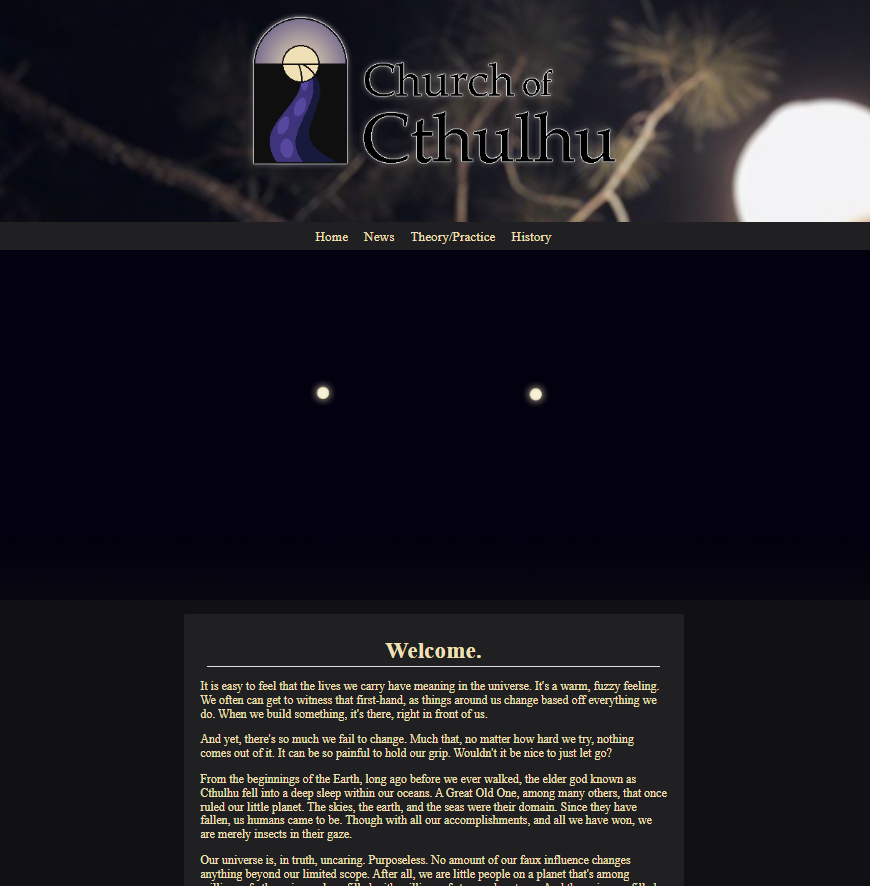
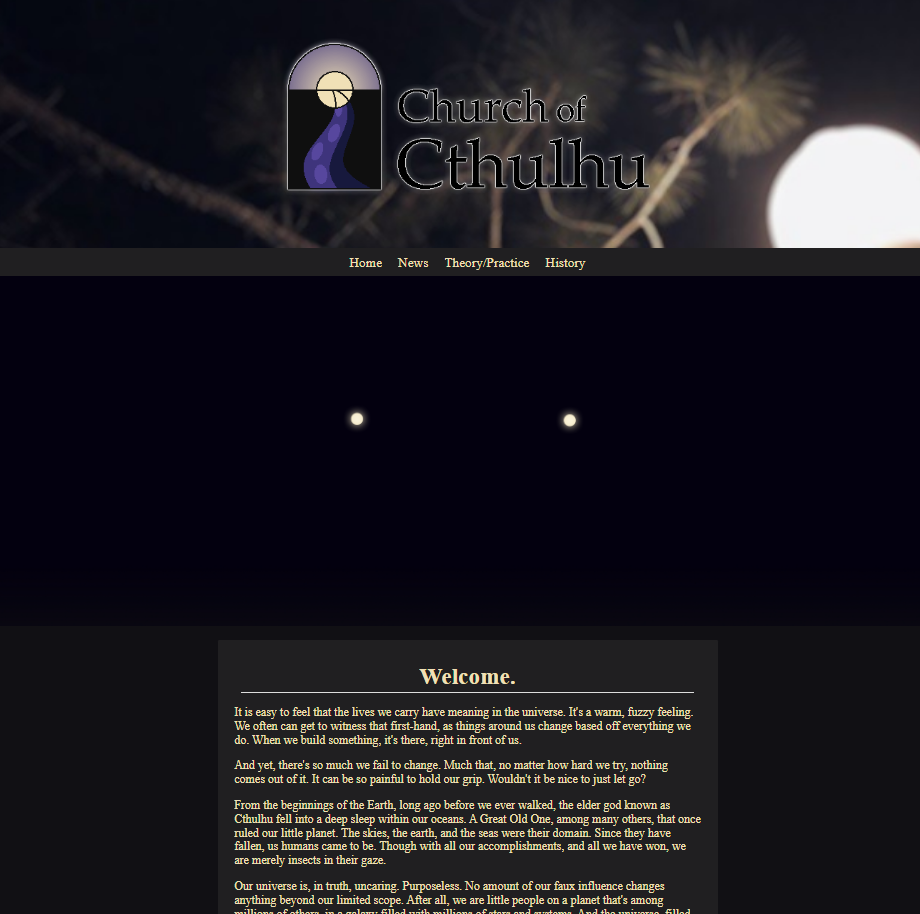
mobile improvements

diff --git a/public/index.scss b/public/index.scss
@@ -20,28 +20,6 @@ $expandedheight: 700px;
 @media (min-width:320px) {
     // smartphones, portrait iPhone, portrait 480x320 phones (Android)
     .item.active {
-        height: $expandedheight - 125px;
-    }
-    
-    .item.inactive {
-        height: $itemheight - 125px;
-    }
-
-    .toggle {
-        top: $itemheight - $dropdownheight - 125px;
-    }
-
-    .active .toggle {
-        top: $expandedheight - $dropdownheight - 125px;
-    }
-
-    .content {
-        top: $expandedheight - $descheight - $dropdownheight * 2 - 125px;
-    }
-}
-@media (min-width:480px)  {  
-    // smartphones, Android phones, landscape iPhone
-    .item.active {
         height: $expandedheight - 100px;
     }
     
@@ -58,7 +36,41 @@ $expandedheight: 700px;
     }
 
     .content {
-        top: $expandedheight - $descheight - $dropdownheight * 2 - 100px; 
+        top: $expandedheight - $descheight - $dropdownheight * 2 - 100px;
+    }
+
+    p {
+        font-size: 14px;
+    }
+    .icon {
+        margin-bottom: 10px;
+        margin-top: 10px;
+    }
+    h1 {
+        margin-bottom: 30px;
+        margin-top: 60px;
+    }
+}
+@media (min-width:480px)  {  
+    // smartphones, Android phones, landscape iPhone
+    .item.active {
+        height: $expandedheight - 80px;
+    }
+    
+    .item.inactive {
+        height: $itemheight - 80px;
+    }
+
+    .toggle {
+        top: $itemheight - $dropdownheight - 80px;
+    }
+
+    .active .toggle {
+        top: $expandedheight - $dropdownheight - 80px;
+    }
+
+    .content {
+        top: $expandedheight - $descheight - $dropdownheight * 2 - 80px; 
     }
 }
 @media (min-width:600px)  {  
@@ -81,6 +93,17 @@ $expandedheight: 700px;
 
     .content {
         top: $expandedheight - $descheight - $dropdownheight * 2;
+    }
+    p {
+        font-size: 16px;
+    }
+    .icon {
+        margin-bottom: 20px;
+        margin-top: 20px;
+    }
+    h1 {
+        margin-bottom: 40px;
+        margin-top: 80px;
     }
 }
 @media (min-width:801px)  { 
@@ -219,8 +242,6 @@ footer {
     border-radius: 50%;
     width: 100px;
     height: 100px;
-    margin-top: 20px;
-    margin-bottom: 20px;
 }
 
 .decor {
@@ -266,8 +287,6 @@ footer {
 }
 
 h1 {
-    margin-top: 80px;
-    margin-bottom: 40px;
     color: white;
     text-align: center;
     text-shadow: 0px 5px 5px rgba(0, 0, 0, 0.50);
@@ -284,7 +303,7 @@ h1 {
 
 .card h2 {
     margin: 0px 0px 0px 0px;
-    padding-top: 20px;
+    padding-top: 10px;
 }
 
 .item p {

diff --git a/public/index.css b/public/index.css
@@ -3,27 +3,6 @@
 @import url("https://fonts.googleapis.com/css2?family=Raleway:wght@400;700&display=swap");
 @media (min-width: 320px) {
   .item.active {
-    height: 575px;
-  }
-
-  .item.inactive {
-    height: 115px;
-  }
-
-  .toggle {
-    top: 75px;
-  }
-
-  .active .toggle {
-    top: 535px;
-  }
-
-  .content {
-    top: 195px;
-  }
-}
-@media (min-width: 480px) {
-  .item.active {
     height: 600px;
   }
 
@@ -41,6 +20,41 @@
 
   .content {
     top: 220px;
+  }
+
+  p {
+    font-size: 14px;
+  }
+
+  .icon {
+    margin-bottom: 10px;
+    margin-top: 10px;
+  }
+
+  h1 {
+    margin-bottom: 30px;
+    margin-top: 60px;
+  }
+}
+@media (min-width: 480px) {
+  .item.active {
+    height: 620px;
+  }
+
+  .item.inactive {
+    height: 160px;
+  }
+
+  .toggle {
+    top: 120px;
+  }
+
+  .active .toggle {
+    top: 580px;
+  }
+
+  .content {
+    top: 240px;
   }
 }
 @media (min-width: 600px) {
@@ -62,6 +76,20 @@
 
   .content {
     top: 320px;
+  }
+
+  p {
+    font-size: 16px;
+  }
+
+  .icon {
+    margin-bottom: 20px;
+    margin-top: 20px;
+  }
+
+  h1 {
+    margin-bottom: 40px;
+    margin-top: 80px;
   }
 }
 .canvaswrapper {
@@ -281,8 +309,6 @@ footer {
   border-radius: 50%;
   width: 100px;
   height: 100px;
-  margin-top: 20px;
-  margin-bottom: 20px;
 }
 
 .decor {
@@ -336,8 +362,6 @@ footer {
 }
 
 h1 {
-  margin-top: 80px;
-  margin-bottom: 40px;
   color: white;
   text-align: center;
   text-shadow: 0px 5px 5px rgba(0, 0, 0, 0.5);
@@ -356,7 +380,7 @@ h1 {
 
 .card h2 {
   margin: 0px 0px 0px 0px;
-  padding-top: 20px;
+  padding-top: 10px;
 }
 
 .item p {
